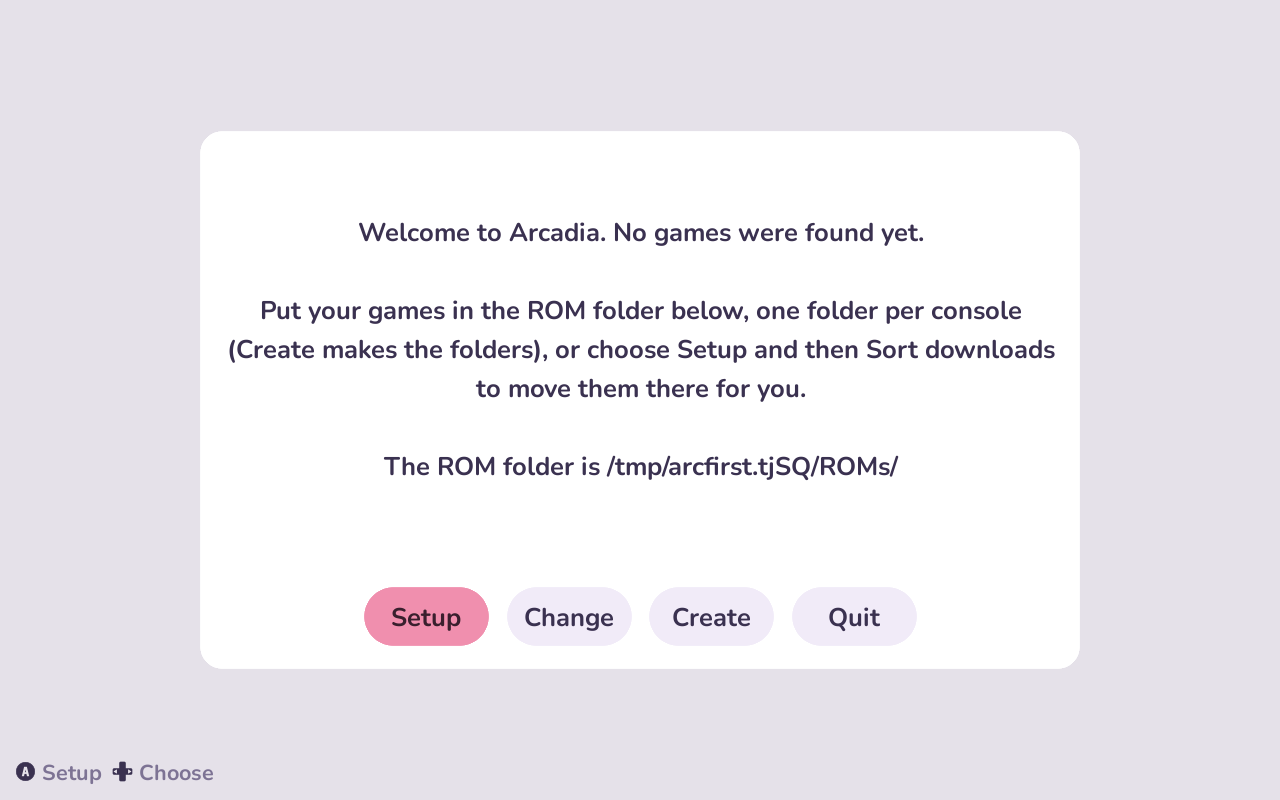
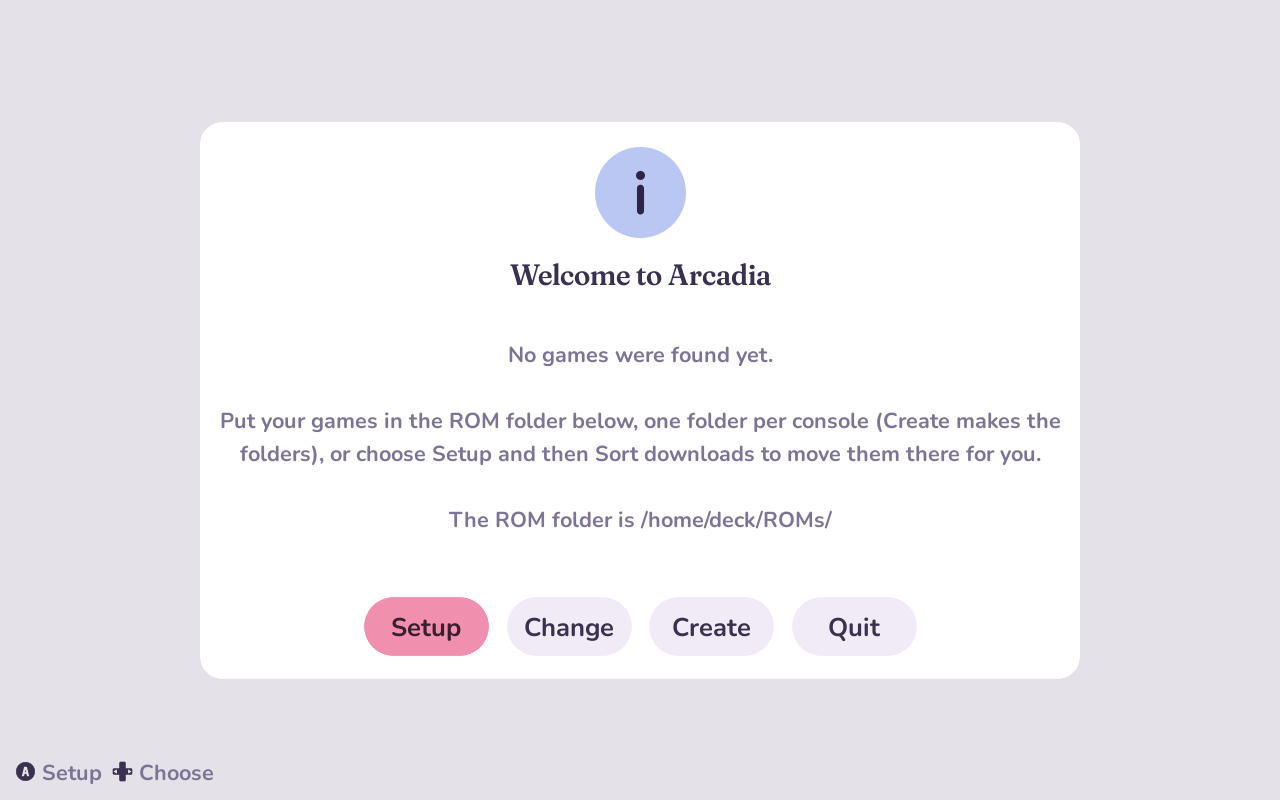
Docs screenshots, taken by a script and brought up to date
tools/screenshots.sh runs Arcadia at 1280x800 on a virtual screen with made-up games on a
few consoles and takes the README's pictures the same way every time (the boot screen,
first start, consoles, a game shelf, Setup, Look and feel, Sound, and the Emulators screen,
which is new). Run it in a container with SHOTS_HOME=/home/deck for Deck-like paths.

Changed region(s): [[0.1562, 0.125, 0.8438, 0.5938], [0.1562, 0.7188, 0.8438, 0.875], [0.3438, 0.625, 0.6562, 0.6562]]

diff --git a/README.md b/README.md
@@ -36,6 +36,7 @@ Taken from the program itself at 1280x800 (the Deck's screen), with test games t
 | ![Settings](docs/screenshots/main-menu.png) | ![Setup](docs/screenshots/setup.png) |
 | ![Sound settings](docs/screenshots/sound-settings.png) | ![BIOS check](docs/screenshots/setup-checklist.png) |
 | ![Sorting ROMs](docs/screenshots/setup-sort.png) | ![First start](docs/screenshots/first-start.png) |
+| ![Emulators](docs/screenshots/setup-emulators.png) | |
 
 ## Build
 
